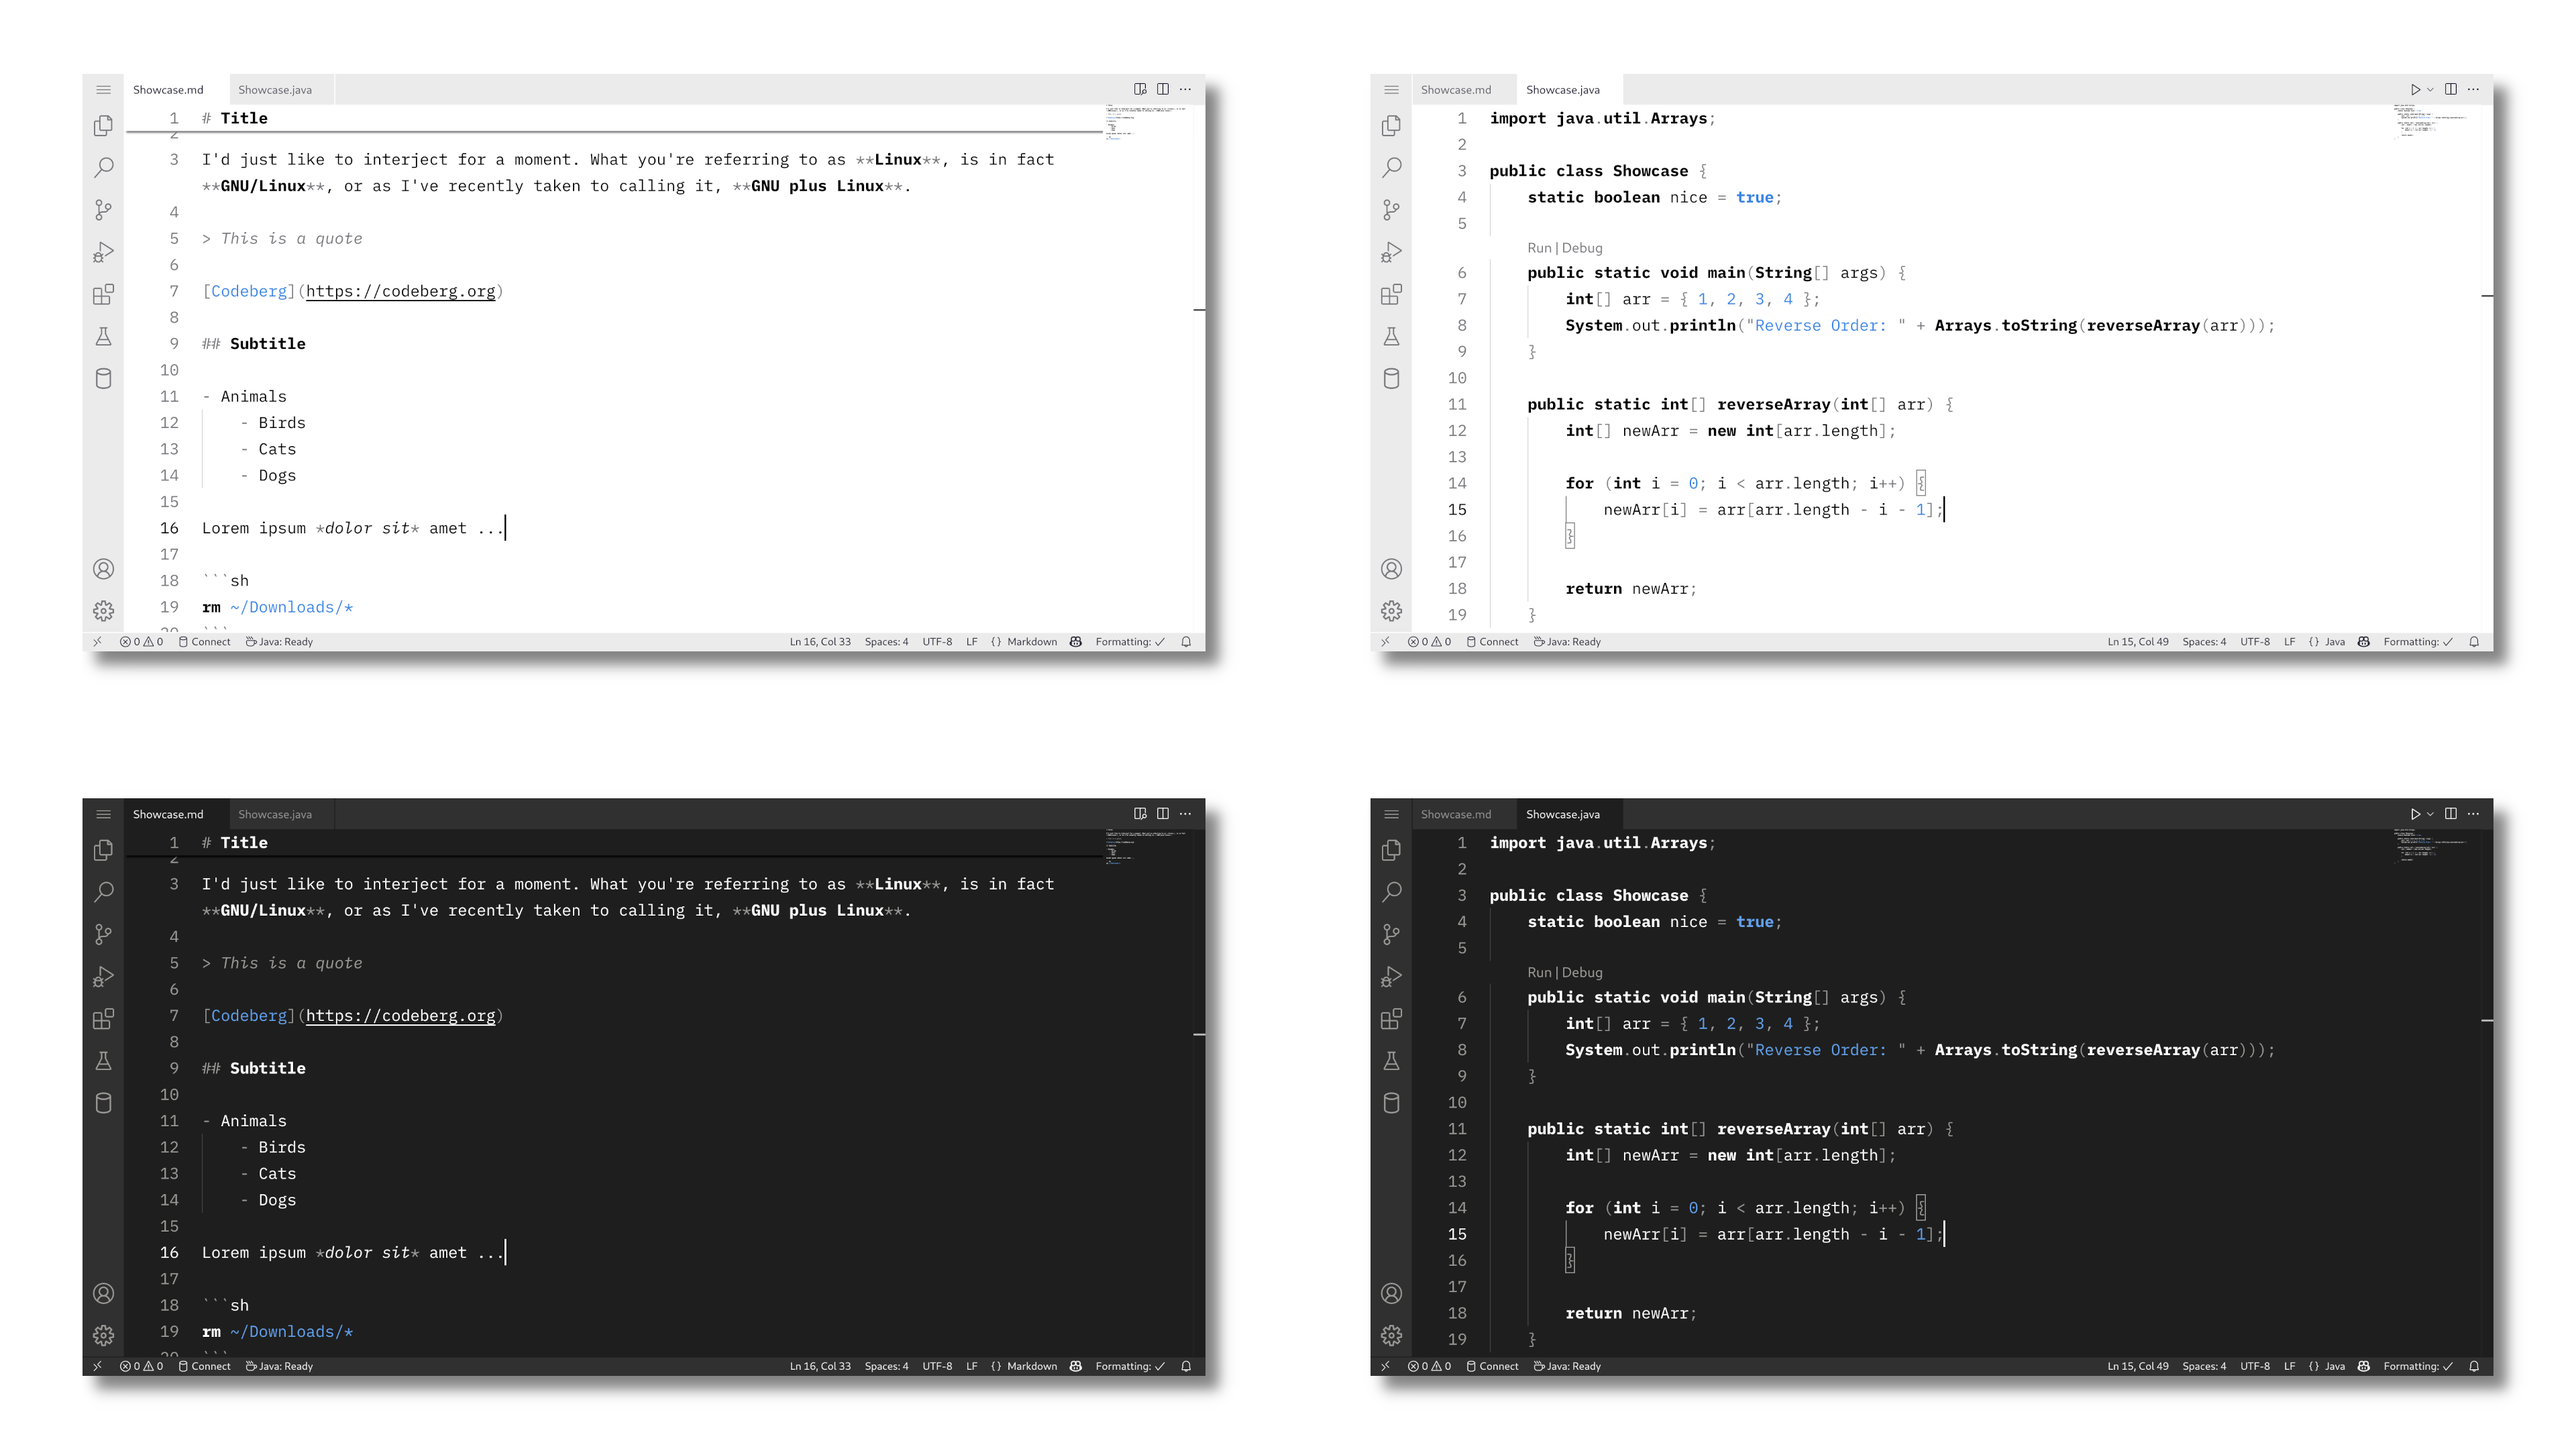
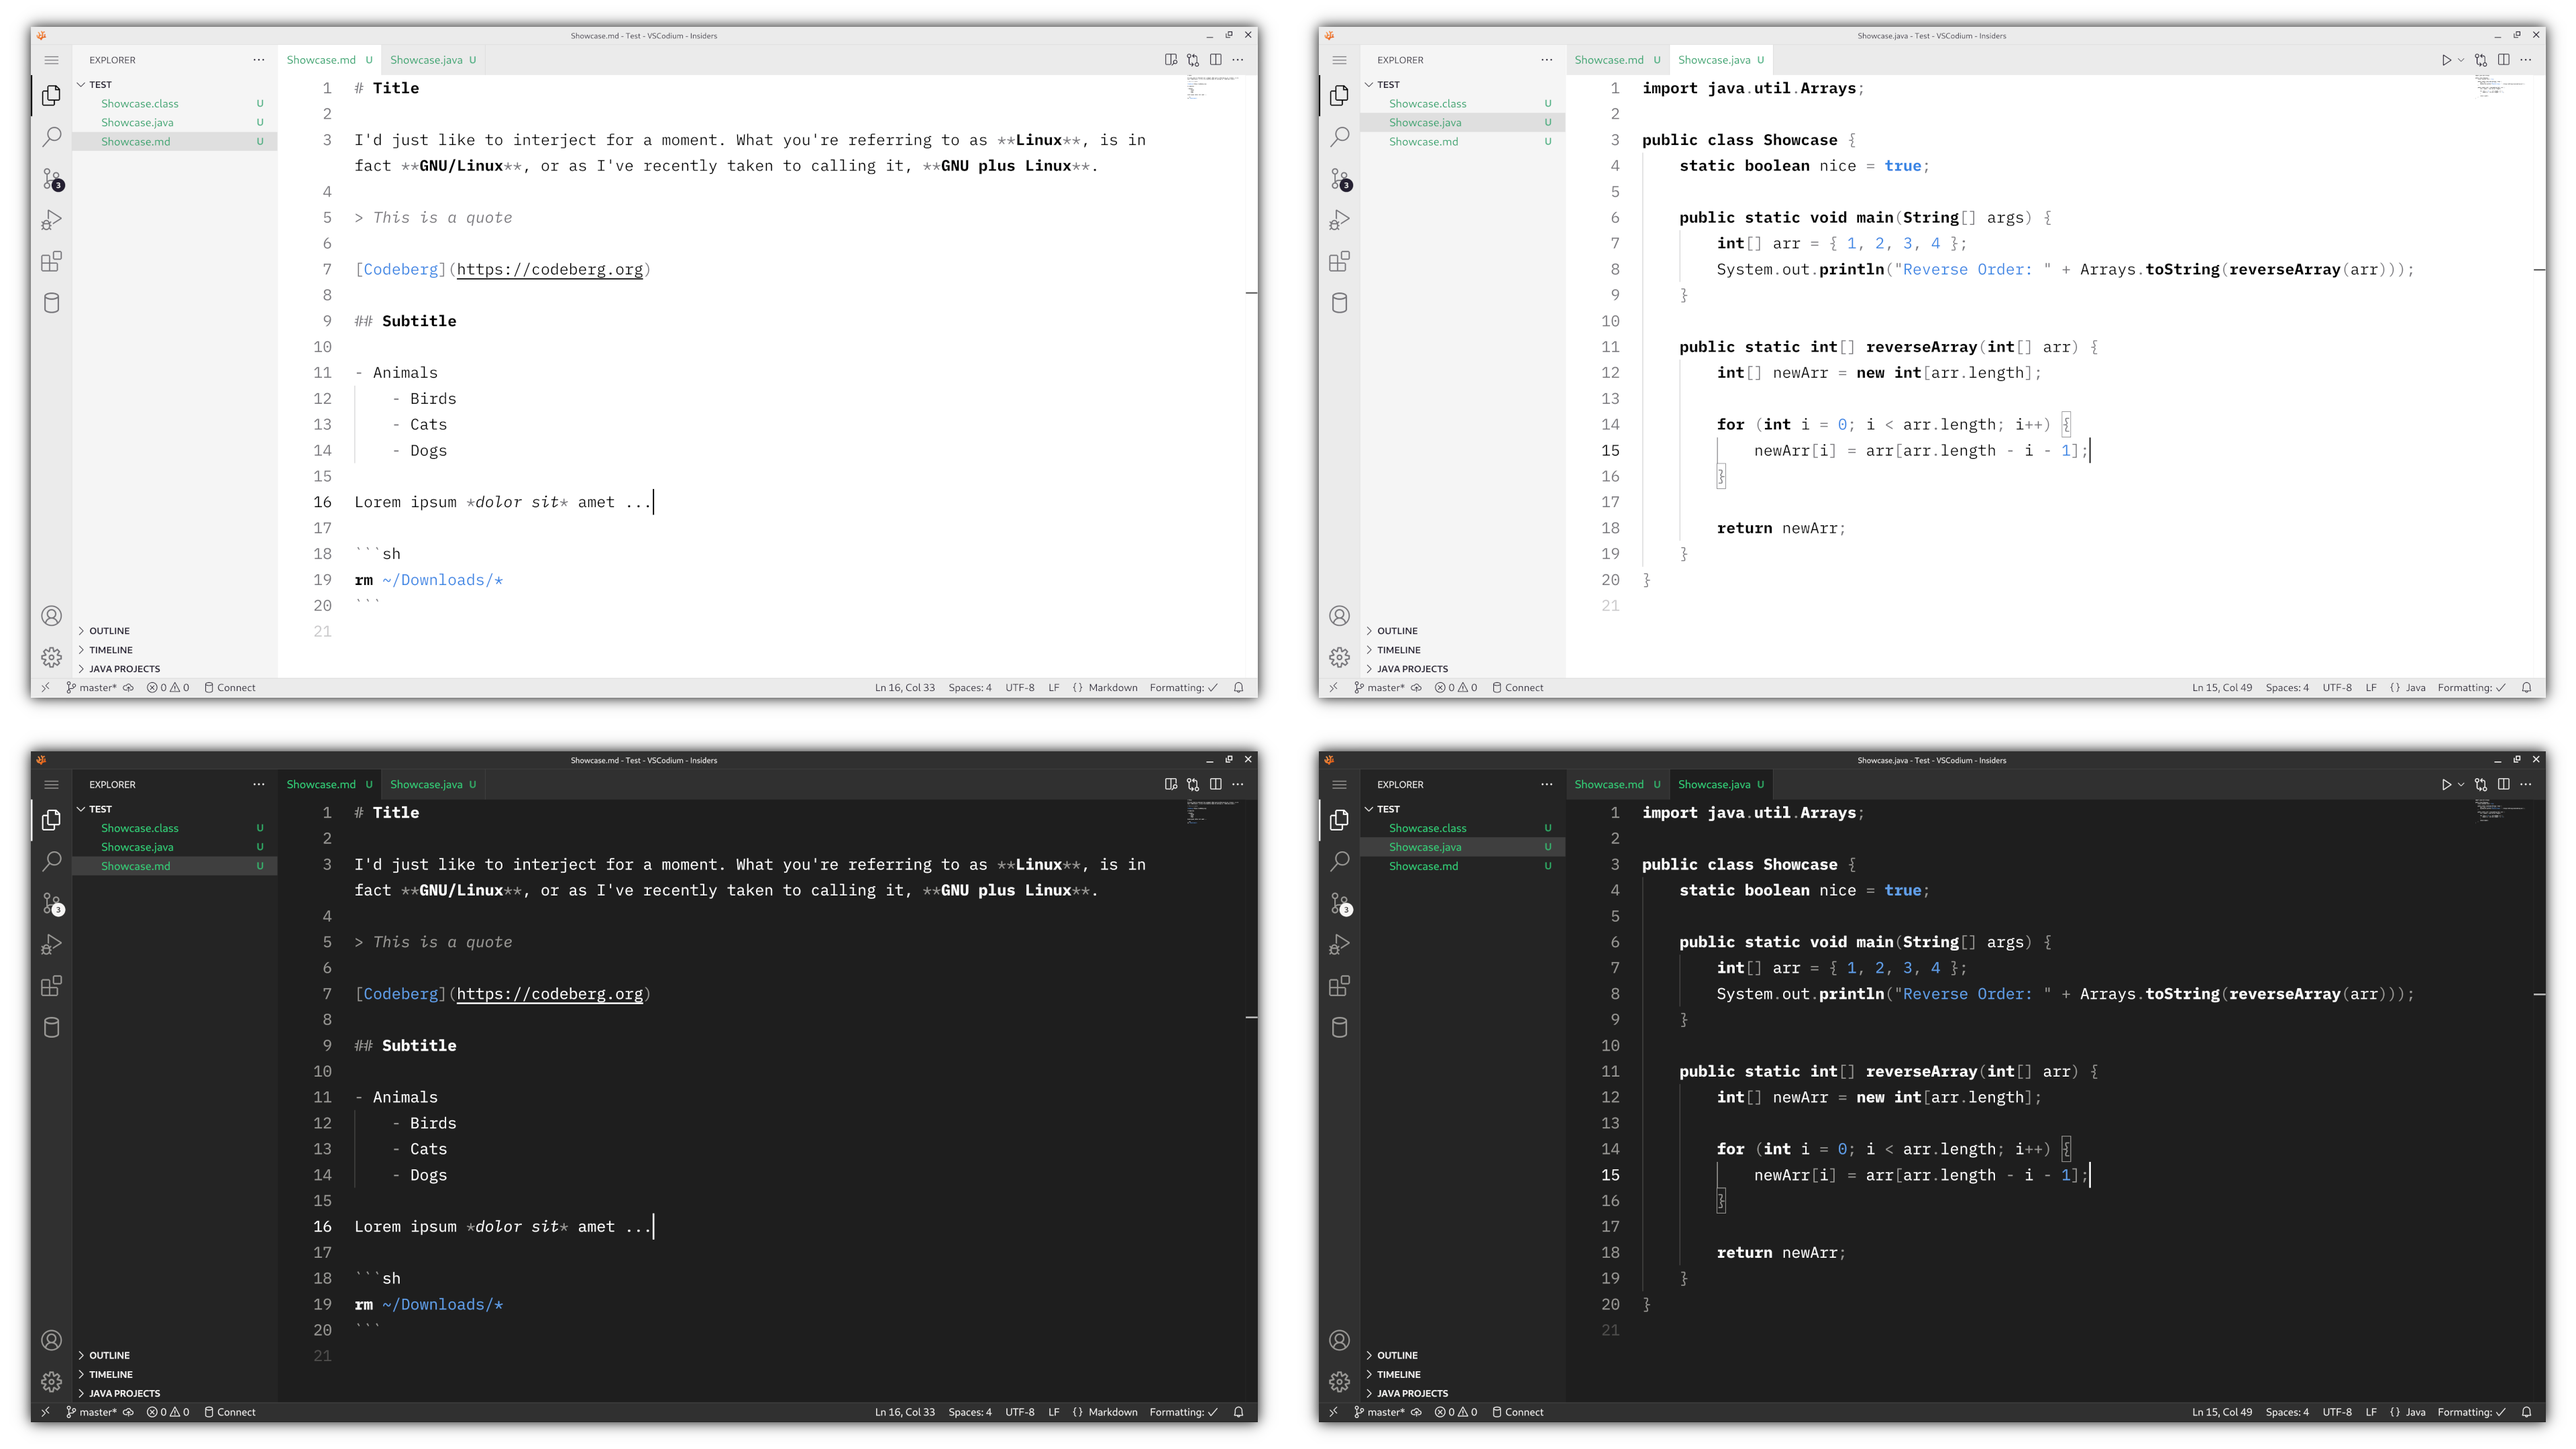
chore: bump version to 0.11.0

diff --git a/CHANGELOG.md b/CHANGELOG.md
@@ -1,5 +1,10 @@
 # Changelog
 
+## v0.11.0 - 2025-04-10
+
+- General UI overhaul
+- Add color for `gitDecoration.addedResourceForeground`
+
 ## v0.10.3 - 2025-03-24
 
 - Fix dropdown background color
